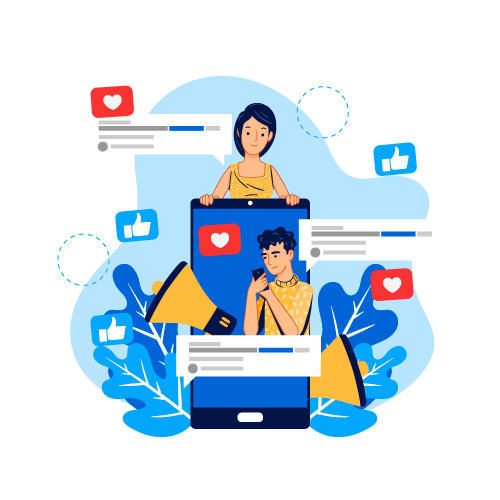
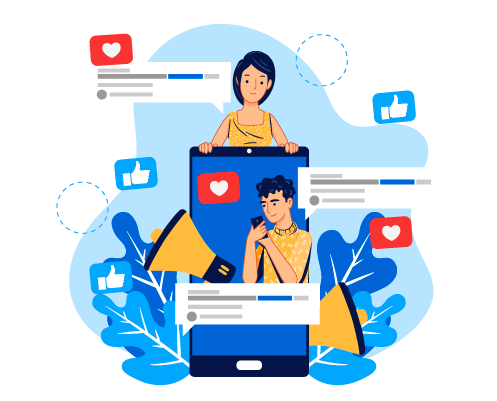
minor changes

diff --git a/OurServices.html b/OurServices.html
@@ -115,8 +115,8 @@
                     </p>                          
                   </div>                
             </div>
-         <div class="col-lg-6 order-1 order-lg-2">
-          <img src="assets/img/Services/Web Desinging PNG.png" width="320px" alt="" style="float: right;" class="img-fluid">               
+         <div class="col-lg-6 order-1 serviceimg order-lg-2">
+          <img src="assets/img/Services/Web Desinging PNG.png" alt="" style="float: right;" class="img-fluid">               
      </div> 
         </div>
         <br>
@@ -143,8 +143,8 @@
           </div>
       
            </div>
-          <div class="col-lg-6 mt-2 mb-tg-0 order-2 order-lg-1">
-             <img src="assets/img/Services/Social Media Management png.png" alt="" width="320px" style="float: left;" class="img-fluid">               
+          <div class="col-lg-6 mt-2 mb-tg-0 serviceimg order-2 order-lg-1">
+             <img src="assets/img/Services/Social Media Management png.png" alt="" style="float: left;" class="img-fluid">               
           </div>
       </div>
       <br>
@@ -178,8 +178,8 @@
         
         </div>
 
-        <div class="col-lg-6 order-1 order-lg-2">
-            <img src="assets/img/Services/SEO PNG.png" width="320px" alt="" style="float: right;" class="img-fluid">               
+        <div class="col-lg-6 order-1 serviceimg order-lg-2">
+            <img src="assets/img/Services/SEO PNG.png" alt="" style="float: right;" class="img-fluid">               
        </div>
       </div>
     </section><!-- End Features Section -->

diff --git a/assets/css/style.css b/assets/css/style.css
@@ -521,6 +521,9 @@ section {
 .services{
   background: rgb(234, 240, 240);
 }
+.serviceimg{
+  width: 50vw;
+}
 .services .icon-box {
   padding: 30px;
   position: relative;
